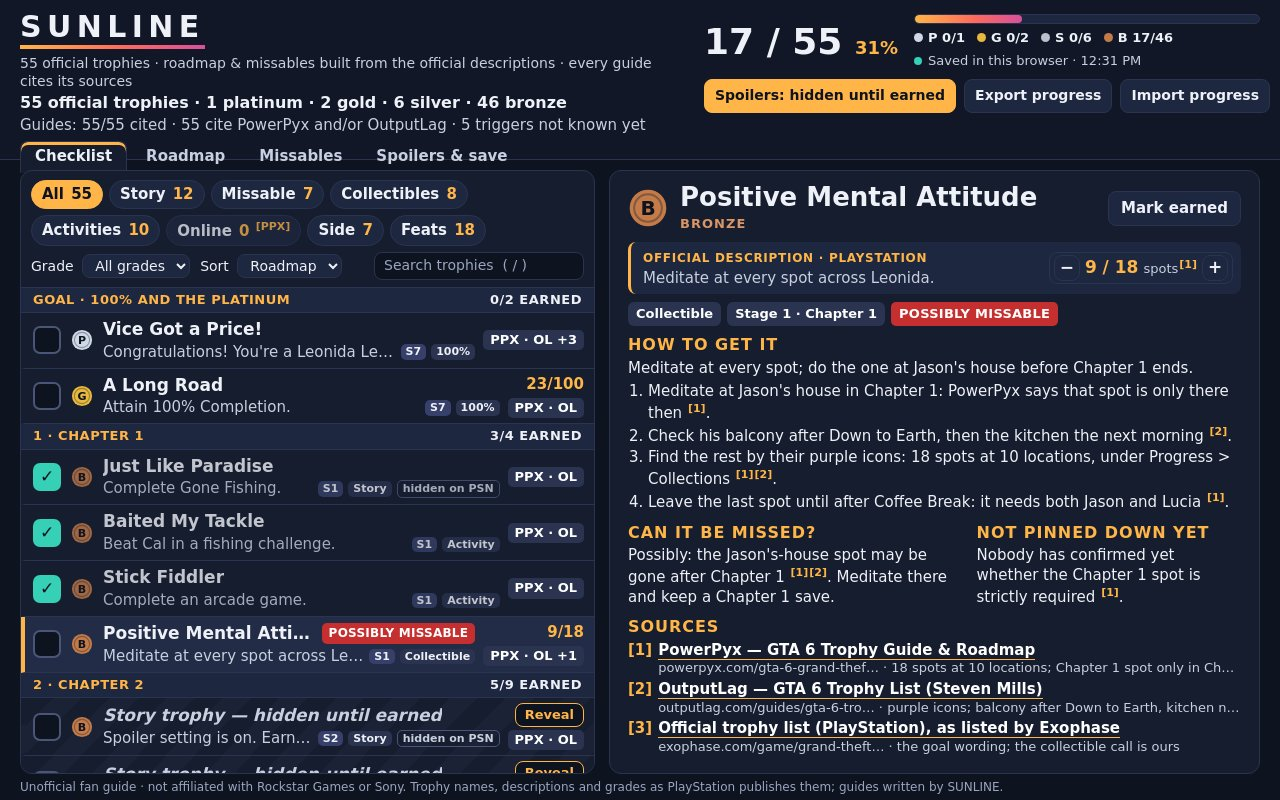
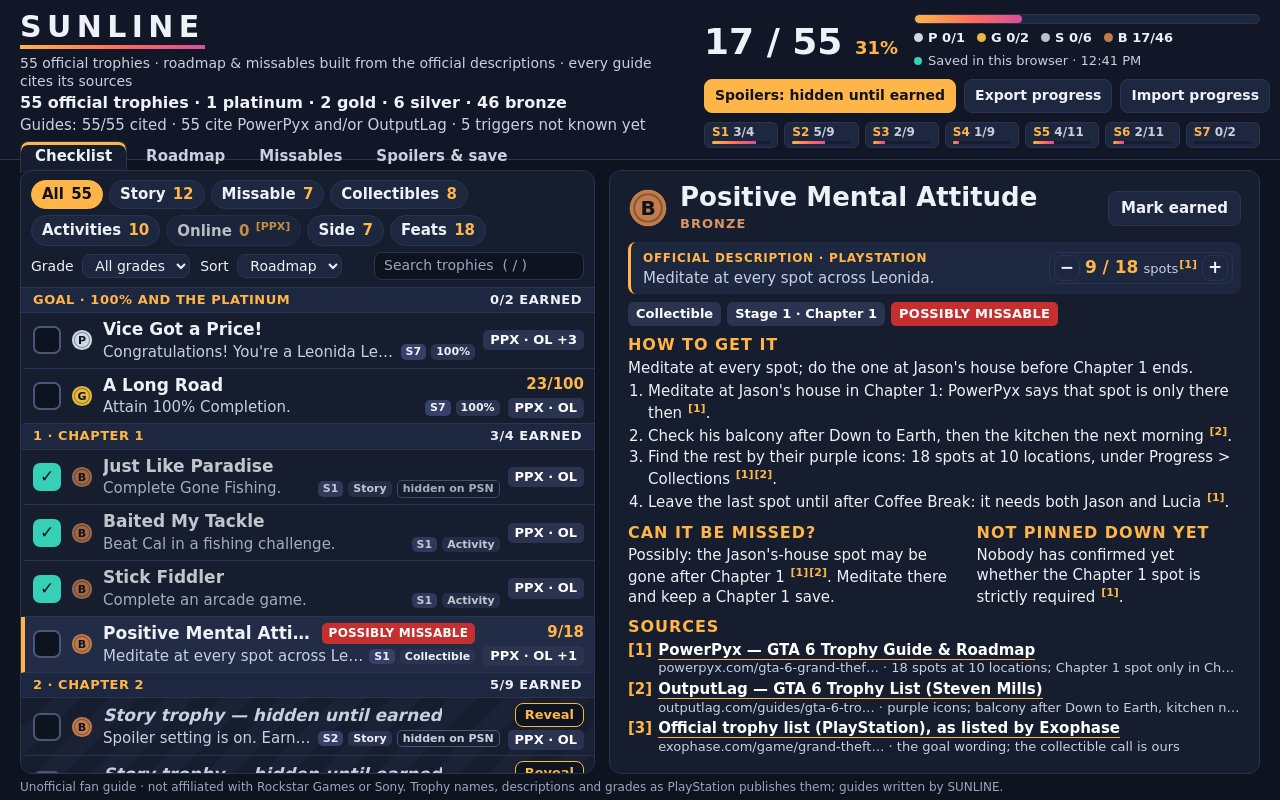
SUNLINE M2d: per-stage earned strip (S1-S7 counts + bars) in the header card; shots re-taken

Changed region(s): [[0.5312, 0.1562, 1.0, 0.1875]]

diff --git a/app/css/sunline.css b/app/css/sunline.css
@@ -128,6 +128,24 @@ code { font-size: 13px; background: var(--raised); padding: 1px 5px; border-radi
 
 .actions { display: flex; gap: 8px; }
 
+.stage-earned { display: flex; gap: 6px; }
+
+.se { flex: 1; display: flex; flex-direction: column; gap: 2px; padding: 2px 7px 3px; border: 1px solid var(--line);
+  border-radius: 6px; background: var(--raised); color: var(--desc); font-size: 12px; font-weight: 700;
+  line-height: 1.2; text-decoration: none; white-space: nowrap; }
+
+.se b { color: var(--amber); }
+
+.se i { display: block; height: 3px; border-radius: 2px; background: var(--pane); overflow: hidden; }
+
+.se i span { display: block; height: 100%; background: var(--sun); }
+
+.se.is-done { border-color: var(--teal); color: var(--text); }
+
+.se.is-done b { color: var(--teal); }
+
+.se:hover, .se:focus-visible { color: var(--text); border-color: var(--amber); }
+
 .actions button, .actions .btn { font-size: 14px; font-weight: 700; padding: 6px 10px; white-space: nowrap; }
 
 #spoiler-switch[aria-pressed="true"] { background: var(--amber); color: var(--page); border-color: var(--amber); }

diff --git a/app/js/boot.js b/app/js/boot.js
@@ -111,6 +111,17 @@ function renderHeader(state) {
       return `<span class="ge ge-${g}">${l} ${got}/${all.length}</span>`;
     })
     .join("");
+  // Per-stage strip: each roadmap stage's earned count with a small bar; a finished stage turns teal.
+  document.getElementById("stage-earned").innerHTML = (state.stages || [])
+    .map((s) => {
+      const n = s.trophies.length;
+      const got = s.trophies.filter((t) => progress.earned[t.id]).length;
+      const p = n ? Math.round((got / n) * 100) : 0;
+      const done = n > 0 && got === n ? " is-done" : "";
+      return `<a class="se${done}" href="#/roadmap" aria-label="Stage ${s.n}: ${got} of ${n} earned">` +
+        `<span><b>S${s.n}</b> ${got}/${n}</span><i><span style="width:${p}%"></span></i></a>`;
+    })
+    .join("");
   const when = progress.savedAt
     ? new Date(progress.savedAt).toLocaleTimeString([], { hour: "2-digit", minute: "2-digit" })
     : "nothing saved yet";

diff --git a/app/index.html b/app/index.html
@@ -38,6 +38,7 @@ official descriptions · every guide cites its sources</p>
 <label id="import-label" for="import-progress" class="btn">Import progress</label>
 <input id="import-progress" type="file" accept=".json">
 </div>
+<nav id="stage-earned" class="stage-earned" aria-label="Earned per roadmap stage"></nav>
 </div>
 </header>
 <main id="view" class="view">
